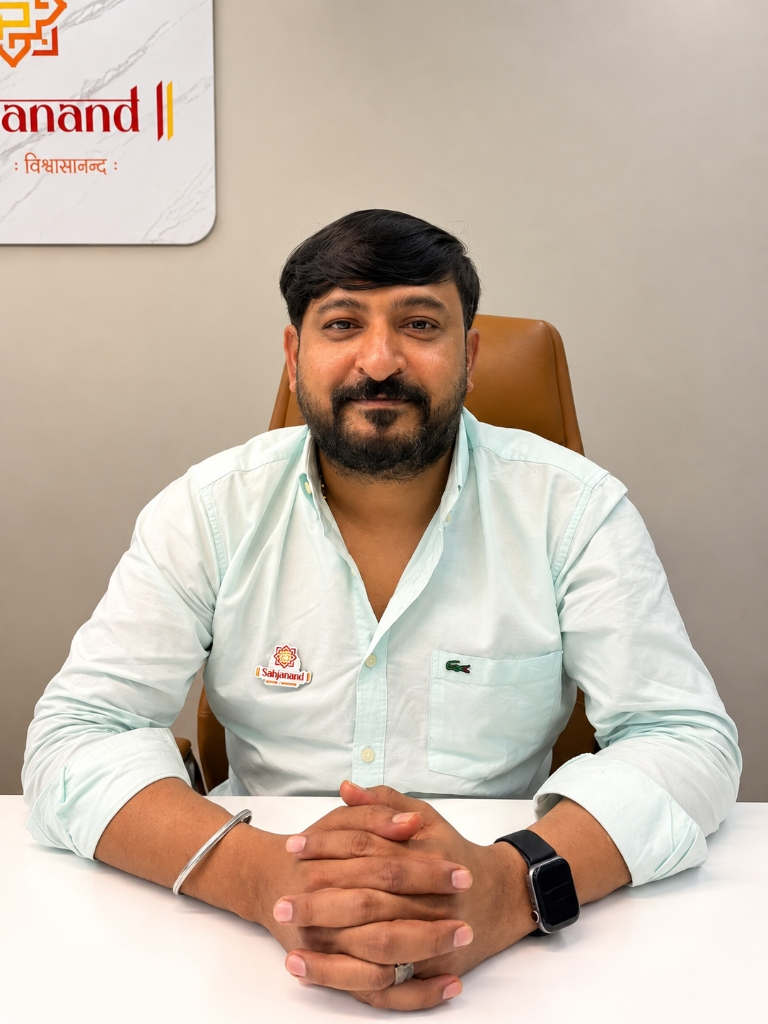
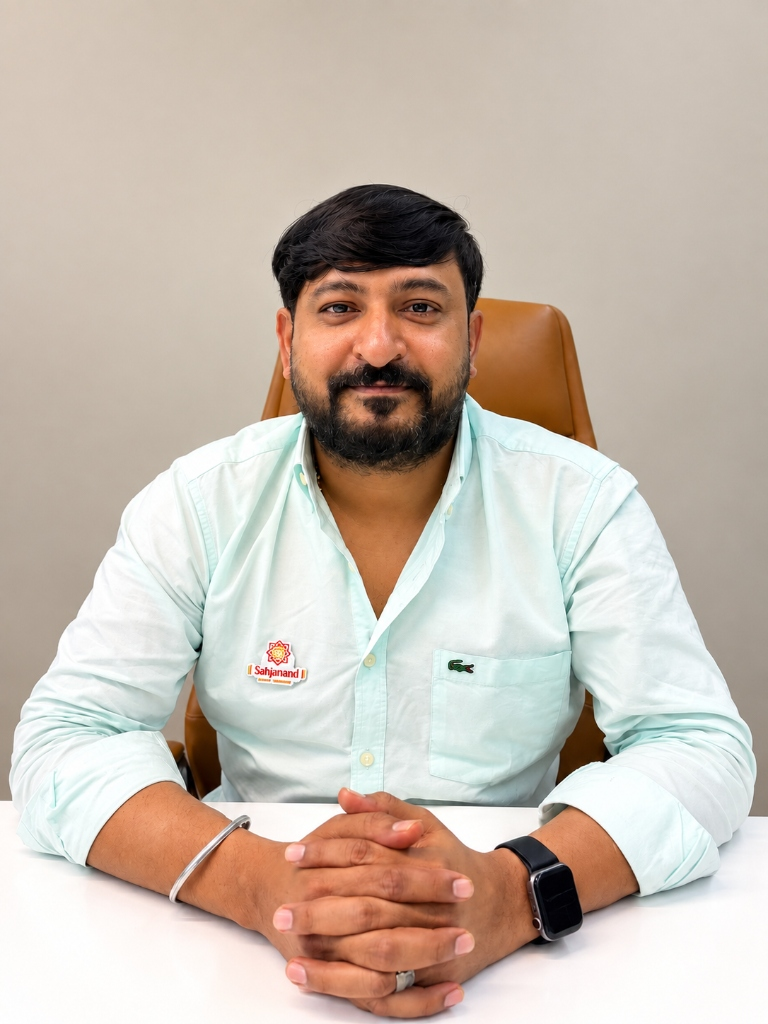
Update Dinesh Bhuva, Shailesh Dholariya, and Bhavesh Pambhar portraits; update Contact panel heading to OFFICE ADDRESS & CONTACT

Changed region(s): [[0.0, 0.1562, 1.0, 1.0], [0.0, 0.0, 0.3125, 0.25], [0.5625, 0.5938, 0.6562, 0.6562]]

diff --git a/management.html b/management.html
@@ -134,7 +134,7 @@
 
     <div class="team-arch-card">
      <div class="team-photo-frame" tabindex="0">
-      <img src="images/team-shailesh-dholariya.jpg" alt="Mr. Shailesh Dholariya" class="team-photo-img" onerror="this.classList.add('is-hidden')">
+      <img src="images/team-shailesh-dholariya.jpg?v=2" alt="Mr. Shailesh Dholariya" class="team-photo-img" onerror="this.classList.add('is-hidden')">
       <div class="team-photo-placeholder" aria-hidden="true">
        <span class="avatar-badge-arch">SD</span>
       </div>
@@ -204,7 +204,7 @@
 
     <div class="team-arch-card">
      <div class="team-photo-frame" tabindex="0">
-      <img src="images/team-dinesh-bhuva.jpg?v=2" alt="Mr. Dinesh Bhuva" class="team-photo-img" onerror="this.classList.add('is-hidden')">
+      <img src="images/team-dinesh-bhuva.jpg?v=3" alt="Mr. Dinesh Bhuva" class="team-photo-img" onerror="this.classList.add('is-hidden')">
       <div class="team-photo-placeholder" aria-hidden="true">
        <span class="avatar-badge-arch">DB</span>
       </div>
@@ -250,7 +250,7 @@
 
     <div class="team-arch-card">
      <div class="team-photo-frame" tabindex="0">
-      <img src="images/team-bhavesh-pambhar.jpg" alt="Mr. Bhavesh Pambhar" class="team-photo-img" onerror="this.classList.add('is-hidden')">
+      <img src="images/team-bhavesh-pambhar.jpg?v=2" alt="Mr. Bhavesh Pambhar" class="team-photo-img" onerror="this.classList.add('is-hidden')">
       <div class="team-photo-placeholder" aria-hidden="true">
        <span class="avatar-badge-arch">BP</span>
       </div>

diff --git a/contact.html b/contact.html
@@ -164,7 +164,7 @@
 
     <!-- CORPORATE DETAILS PANEL -->
     <div class="contact-info-panel">
-      <h3>Official Locations &amp; Contact</h3>
+      <h3>OFFICE ADDRESS &amp; CONTACT</h3>
       
 
 
